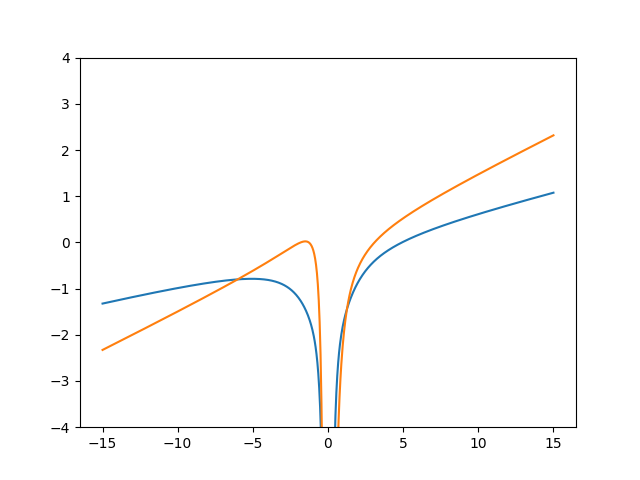
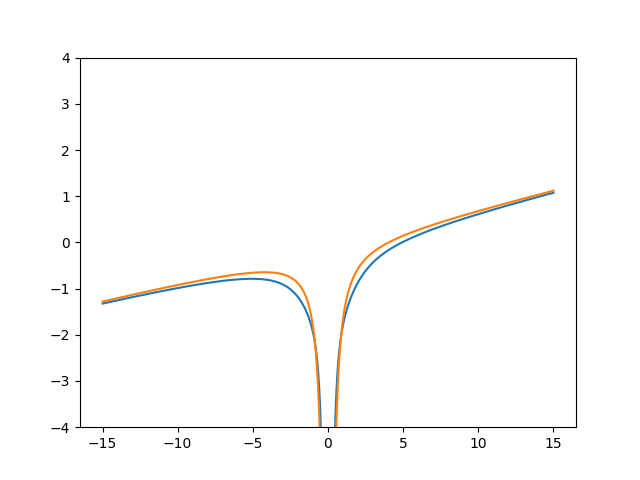
potentials

diff --git a/Times/integrals_symbols.py b/Times/integrals_symbols.py
@@ -30,28 +30,30 @@ m=0
 Io=0.58
 
 
-def potential(F,r):
-    
-    t1= -(alphaI*F/r**2)+F*r
-
-
-    return t1
-
 
 def I(F):
 
     return Io + (F**2)/(2*(alphaN-alphaI))
 
-
-
-
-
-
 def func(r):
     return (c0*(c1+c2*r**2+c3*r**4+c4*r**6+c5*r**8+c6*r**10)*np.exp(-(r**2)/(4*b**2)) +0.5*np.pi*erf(r/(2*b))/r)
 
+
+Vfs=-2*I(F)*func(r)
+V=-2*I(F)/abs(r1)
+
+plt.plot(r,Vfs,label="finite size")
+plt.plot(r1,V,label="Coulomb")
+#plt.xlim(0,max(r))
+plt.ylim(-4,4)
+plt.savefig("comparing_potentials.png")
+plt.legend()
+plt.show()
+plt.close()
+
+
 Vfs=-2*I(F)*func(r)-(alphaI*F/r**2)+F*r
-V=-2*I(F)/r1+potential(F,r1) -(alphaI*F/r1**2)+F*r1
+V=-2*I(F)/abs(r1) -(alphaI*F/r1**2)+F*r1
 
 plt.plot(r,Vfs,label="finite size")
 plt.plot(r1,V,label="Coulomb")
